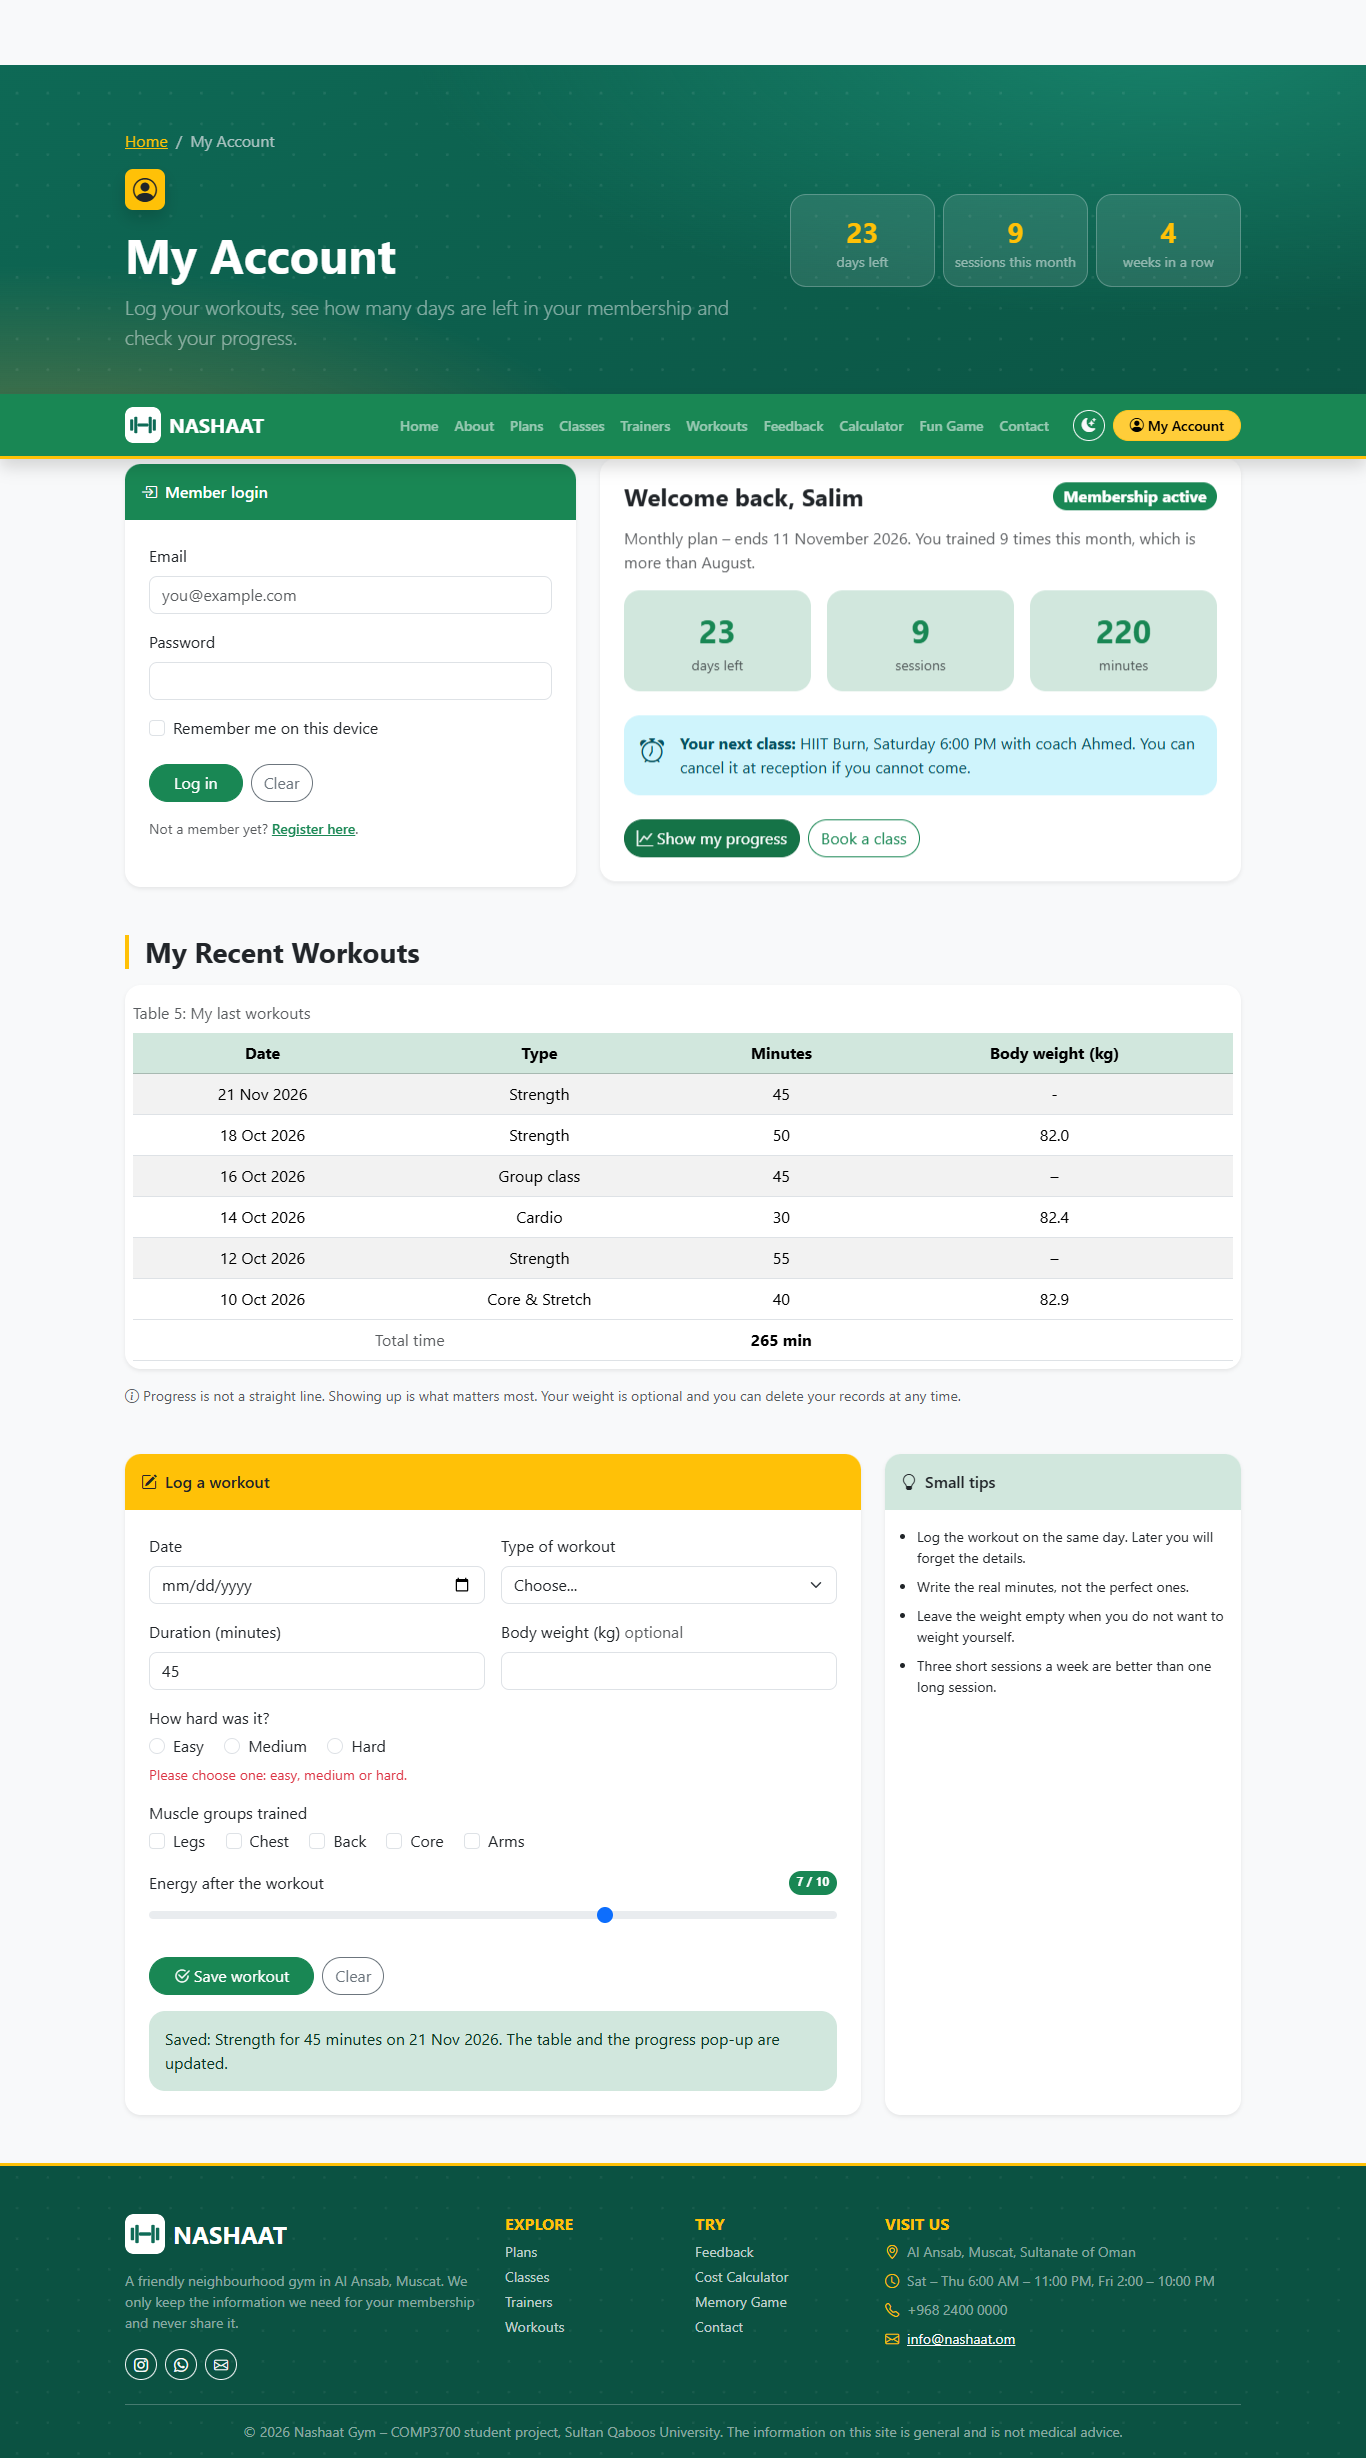
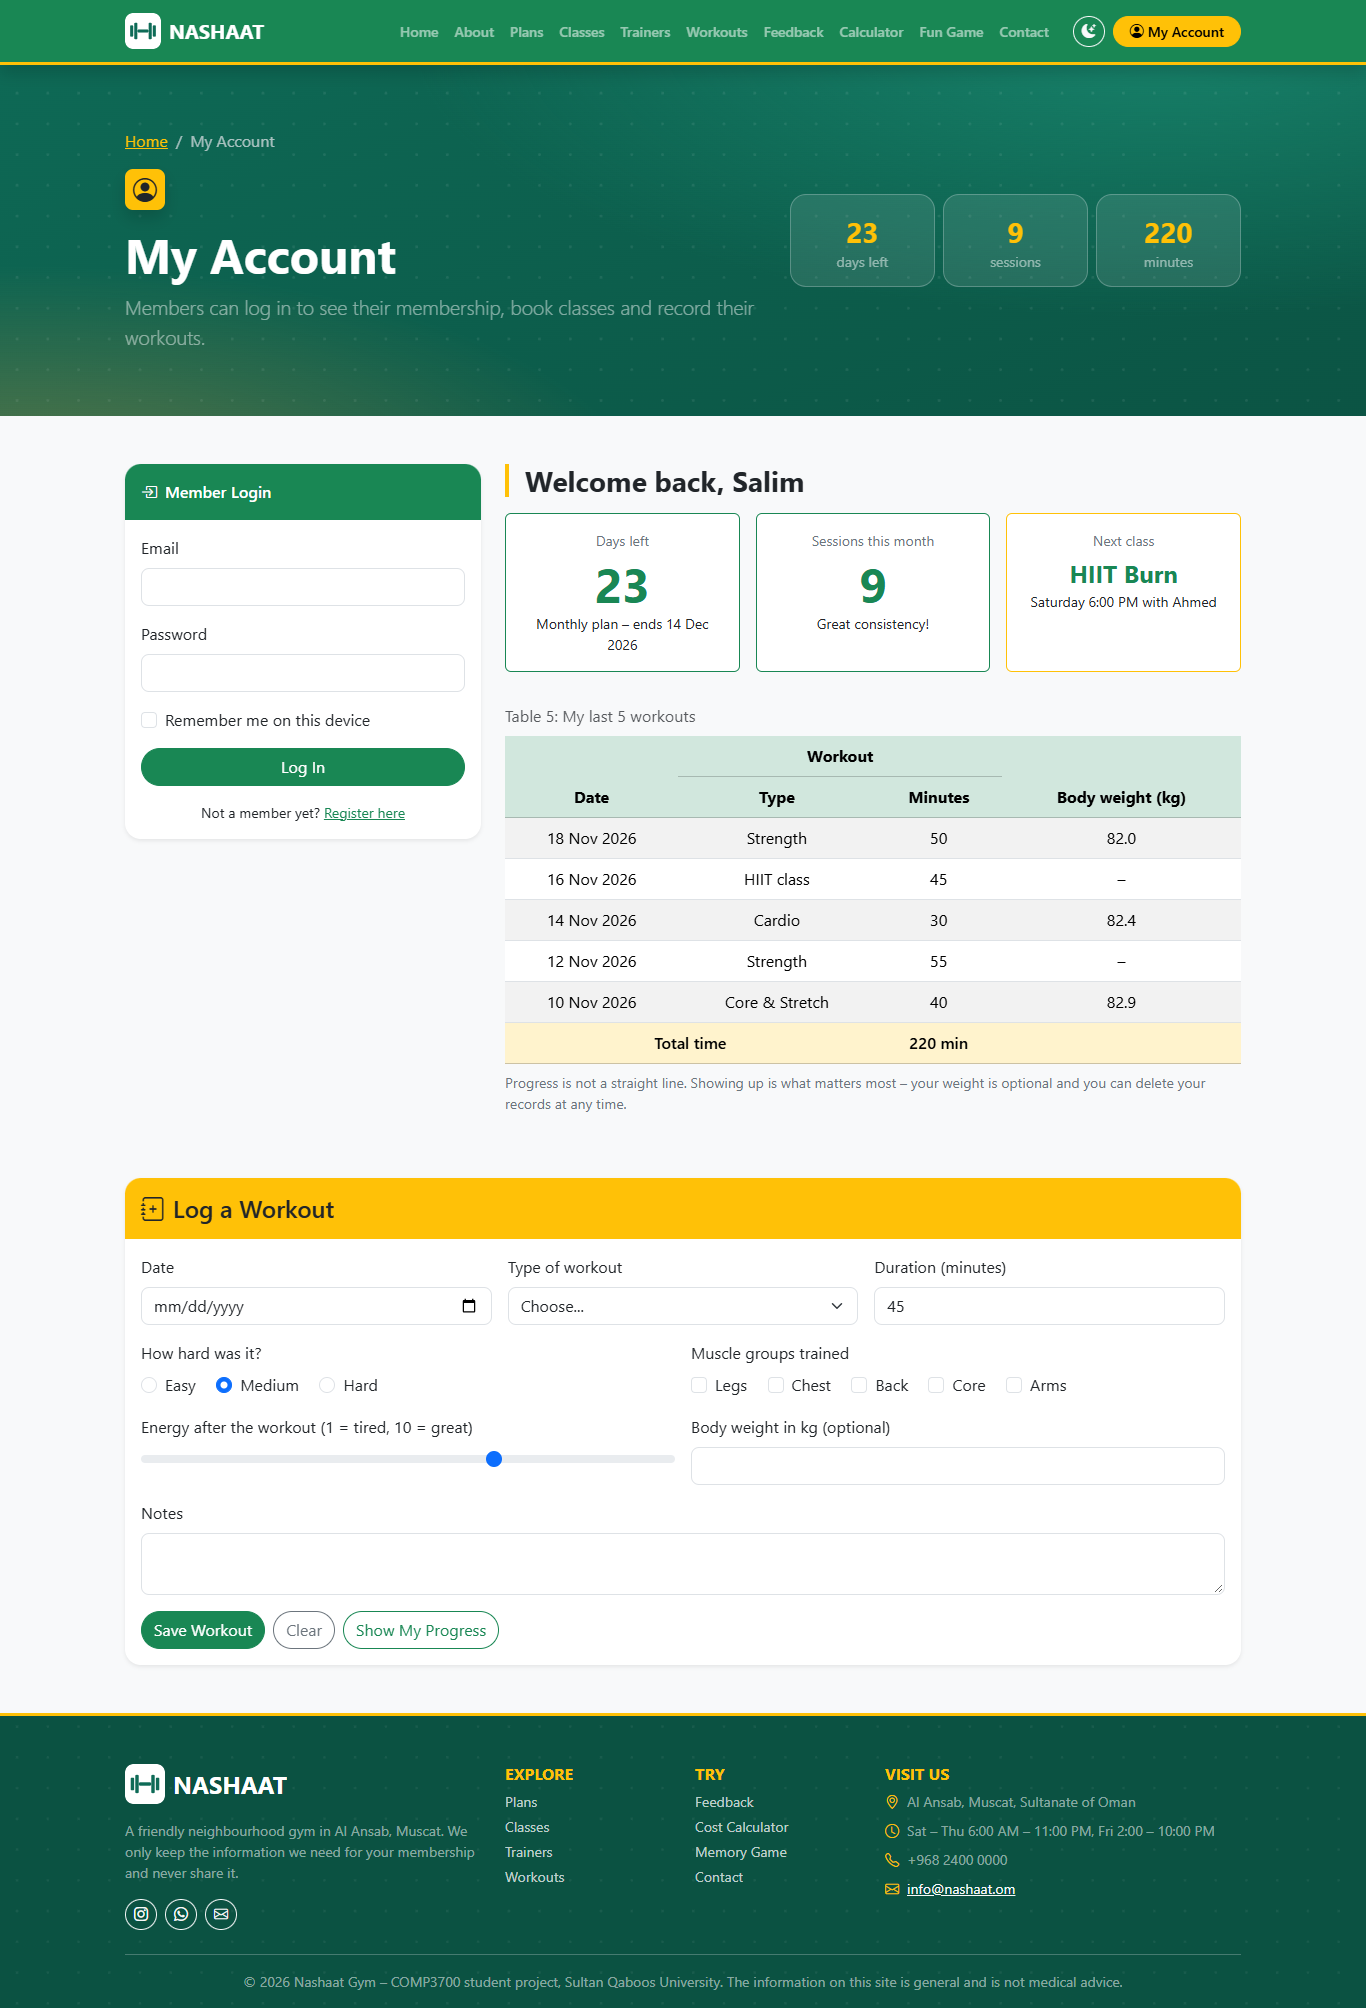
Keep the merged Part III pages and refresh the screenshots

Changed region(s): [[0.0, 0.0, 1.0, 0.5558], [0.0, 0.5867, 1.0, 1.0], [0.5842, 0.741, 0.6149, 0.7719]]

diff --git a/README.md b/README.md
@@ -37,7 +37,6 @@ Team (Section 01):
 - js/funpage.js - memory game
 - js/banner.js - moving welcome banner with the date and time, welcome toast
 - js/workout.js - muscle group filter in the workout library
-- js/dashboard.js - login message, workout log, progress pop-up
 - js/effects.js - animations, back-to-top button, tooltips, dark / light mode
 - images/ - logo, slideshow, trainer, exercise and facility pictures
 - docs/ - our Part I report and the page screenshots
